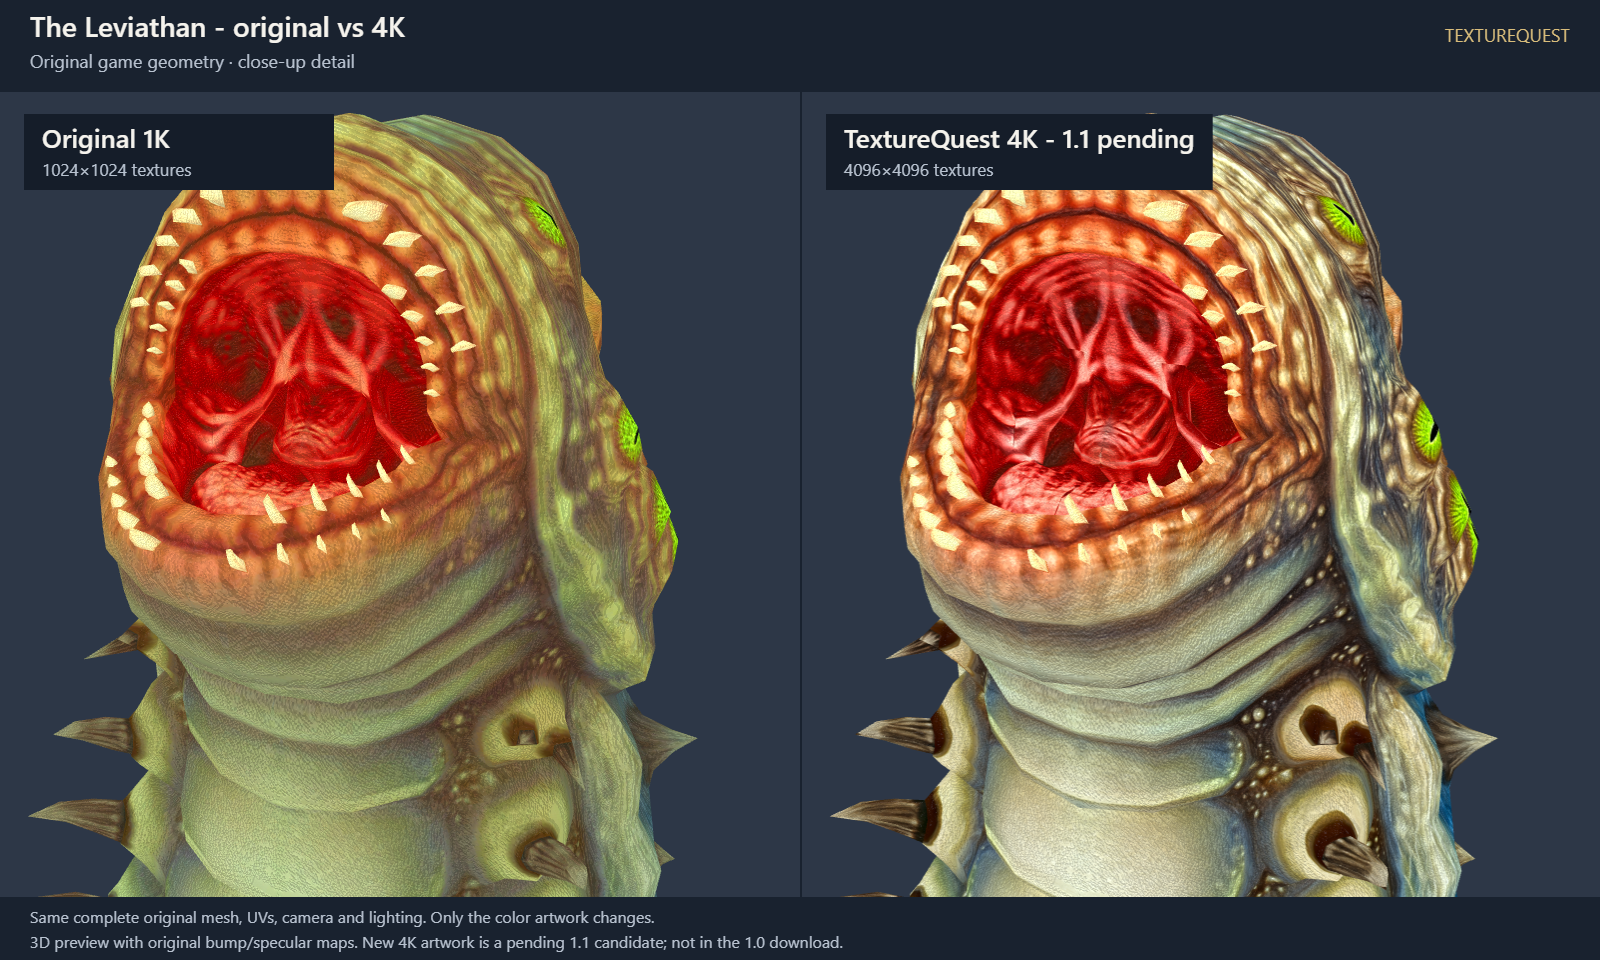
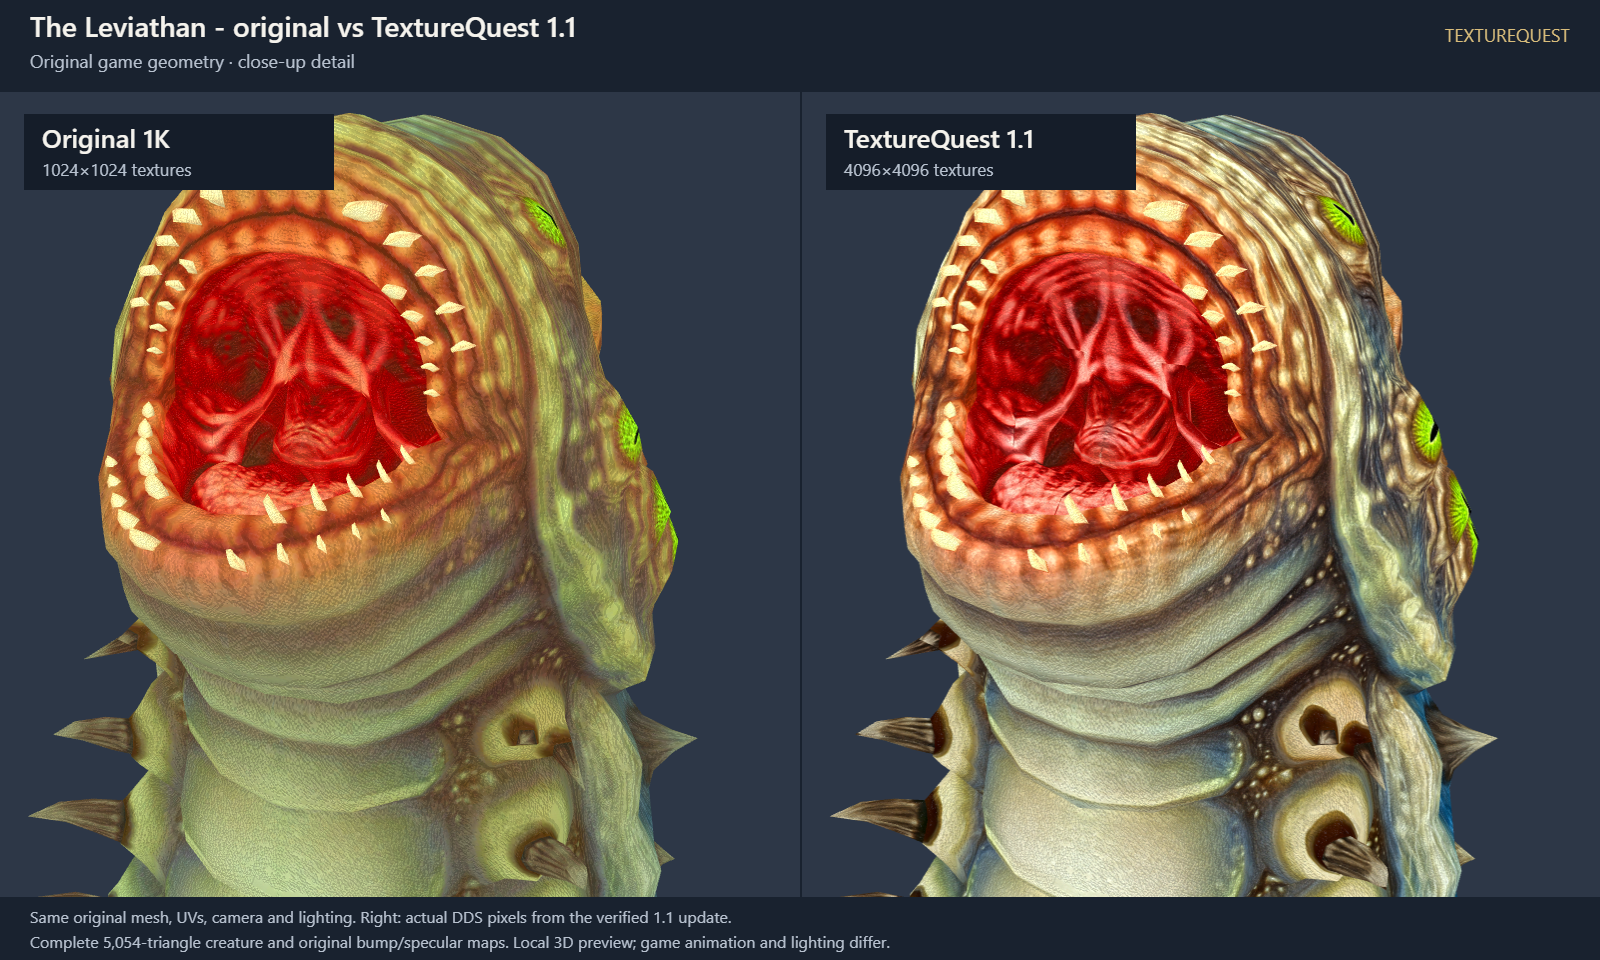
Show the released 1.1 Leviathan textures in the gallery

Changed region(s): [[0.0312, 0.9375, 0.5625, 1.0], [0.625, 0.0938, 0.7812, 0.2188], [0.2188, 0.0, 0.3438, 0.0625]]

diff --git a/docs/GALLERY.md b/docs/GALLERY.md
@@ -1,6 +1,6 @@
 # Stock and TextureQuest, up close
 
-Original game geometry, with matching cameras and lighting. **Original stock** uses native texture sizes, often 512 × 512; the Leviathan body is originally 1024 × 1024. The Leviathan comparison shows the upcoming **TextureQuest 1.1** texture; all other examples use the exact released **1.0** pack. Each image labels the resolutions. Click for the full 1600 × 960 comparison.
+Original game geometry, with matching cameras and lighting. **Original stock** uses native texture sizes, often 512 × 512; the Leviathan body is originally 1024 × 1024. **TextureQuest** uses the exact released textures: the Leviathan's 4K texture from **1.1**, and the unchanged base textures for the other examples. Each image labels the resolutions. Click for the full 1600 × 960 comparison.
 
 These are **3D previews, not in-game screenshots**. Complete objects and their material layers are assembled; terrain is a cropped mesh patch. Lighting and static poses are approximations. Sharper textures can expose existing seams and repeating patterns.
 
@@ -22,11 +22,11 @@ Dragon Sharp blade on its complete original weapon mesh, with its color, bump an
 
 ## Monsters
 
-The Leviathan, with the complete original 5,054-triangle body mesh and unchanged bump and specular maps on both sides. The close-up shows the mouth, teeth and scales. Left: native 1024 × 1024 color texture. Right: verified 4096 × 4096 candidate with the release color finish, before final DDS compression. **This texture is coming in 1.1 and is not included in the current 1.0 download.**
+The Leviathan, with the complete original 5,054-triangle body mesh and unchanged bump and specular maps on both sides. The close-up shows the mouth, teeth and scales. Left: native 1024 × 1024 color texture. Right: the actual 4096 × 4096 DDS texture from the released 1.1 pack, with its color finish and compression.
 
-![Original 1K and upcoming TextureQuest 4K Leviathan, side by side](images/monster-leviathan-main-4k.png)
+![Original 1K and TextureQuest 1.1 4K Leviathan, side by side](images/monster-leviathan-main-4k.png)
 
-[Leviathan comparison provenance](leviathan-4k-provenance.json) records the candidate, source, complete geometry, shared camera and exact browser export.
+[Leviathan comparison provenance](leviathan-4k-provenance.json) records the released DDS, source, complete geometry, shared camera and exact browser export.
 
 Hell Boar, with both original head and body materials. The camera focuses on the face and upper body; all original geometry remains in the scene.
 
@@ -54,6 +54,6 @@ Darklight Woods grass on a contiguous patch of its actual terrain mesh. The base
 
 ## How these comparisons were made
 
-For the released 1.0 examples, the right-hand textures were decoded from the released DDS files, including the pack's color finish and compression. The upcoming Leviathan example uses its verified lossless 4K candidate with the same color finish, before DDS compression. Original geometry, UV coordinates, cameras and lighting are shared. Proven color layers, tint masks and protected surface maps are included; scrolling layers use a shared frozen instant. Exact game lighting, animation, particles and supplied mip chains are not reproduced.
+The right-hand textures were decoded from the released DDS files, including the pack's color finish and compression. The previews apply no extra color correction. Original geometry, UV coordinates, cameras and lighting are shared. Proven color layers, tint masks and protected surface maps are included; scrolling layers use a shared frozen instant. Exact game lighting, animation, particles and supplied mip chains are not reproduced.
 
 [Image and source provenance](gallery-provenance.json) records the exact release checksum, sampled source identities, materials, cameras and exported image hashes. Only the needed retained samples were decoded; no second full collection of stock textures was created.

diff --git a/README.md b/README.md
@@ -6,7 +6,7 @@
 
 TextureQuest is a community texture pack for **EverQuest II Origins**. Its aim is to retain the game's original style, recognizable designs and art direction while bringing out the detail in armor, creatures, signs, buildings and terrain.
 
-AI-assisted upscaling adds finer surface detail while keeping the familiar look of Norrath. The pack includes more than **23,000 textures at 1K or 2K**, covering equipment, characters, creatures and environments. The game's models, animations and lighting remain unchanged. Some fine detail is newly generated, and results vary by texture.
+AI-assisted upscaling adds finer surface detail while keeping the familiar look of Norrath. The pack includes more than **23,000 textures**, mostly at **1K or 2K**, with selected large creatures and heavily stretched surfaces at **4K**. It covers equipment, characters, creatures and environments. The game's models, animations and lighting remain unchanged. Some fine detail is newly generated, and results vary by texture.
 
 ## Download and install
 
@@ -30,7 +30,7 @@ Already have the full `Texture-Pack.zip`? Choose **Maintenance & updates → Use
 
 ## Examples
 
-Close-ups of older Norrath, using the original game models and their material layers with matching cameras and lighting. Original textures are on the left; TextureQuest is on the right. The Leviathan comparison shows the upcoming 1.1 texture; the other examples use the released 1.0 pack. These are 3D previews; appearance in game will vary with lighting, settings and character customization.
+Close-ups of older Norrath, using the original game models and their material layers with matching cameras and lighting. Original textures are on the left; released TextureQuest textures are on the right. These are 3D previews; appearance in game will vary with lighting, settings and character customization.
 
 Expand a category to see close-up comparisons.
 
@@ -61,9 +61,9 @@ Expand a category to see close-up comparisons.
 
 **The Leviathan — mouth, teeth and scales**
 
-Original 1K artwork beside the new 4K texture on the complete model. **Coming in 1.1; not included in the current 1.0 download.**
+Original 1K artwork beside the released 4K texture on the complete model.
 
-![Original 1K and upcoming TextureQuest 4K Leviathan, side by side](docs/images/monster-leviathan-main-4k.png)
+![Original 1K and TextureQuest 1.1 4K Leviathan, side by side](docs/images/monster-leviathan-main-4k.png)
 
 **Hell Boar — fur, skin and tusks**
 
@@ -132,7 +132,7 @@ The installer installs the complete pack. Separate content selections are not av
 
 The [technical guide](docs/TECHNICAL.md) covers the model and generation recipe, resolution selection, material and DDS compatibility findings, corrections, validation, and building the installer. It also explains what is available to reproduce from this repository.
 
-For manual downloads and checksums, use the [release files](https://github.com/Maergoth/TextureQuest/releases/tag/v1.0.0). The installer handles the fourteen pack parts automatically. GitHub's **Source code (zip)** does not contain the textures.
+For manual downloads and checksums, use the [release files](https://github.com/Maergoth/TextureQuest/releases/latest). The installer fetches and verifies the required base and update files automatically. GitHub's **Source code (zip)** does not contain the textures.
 
 ## Credits and ownership
 
